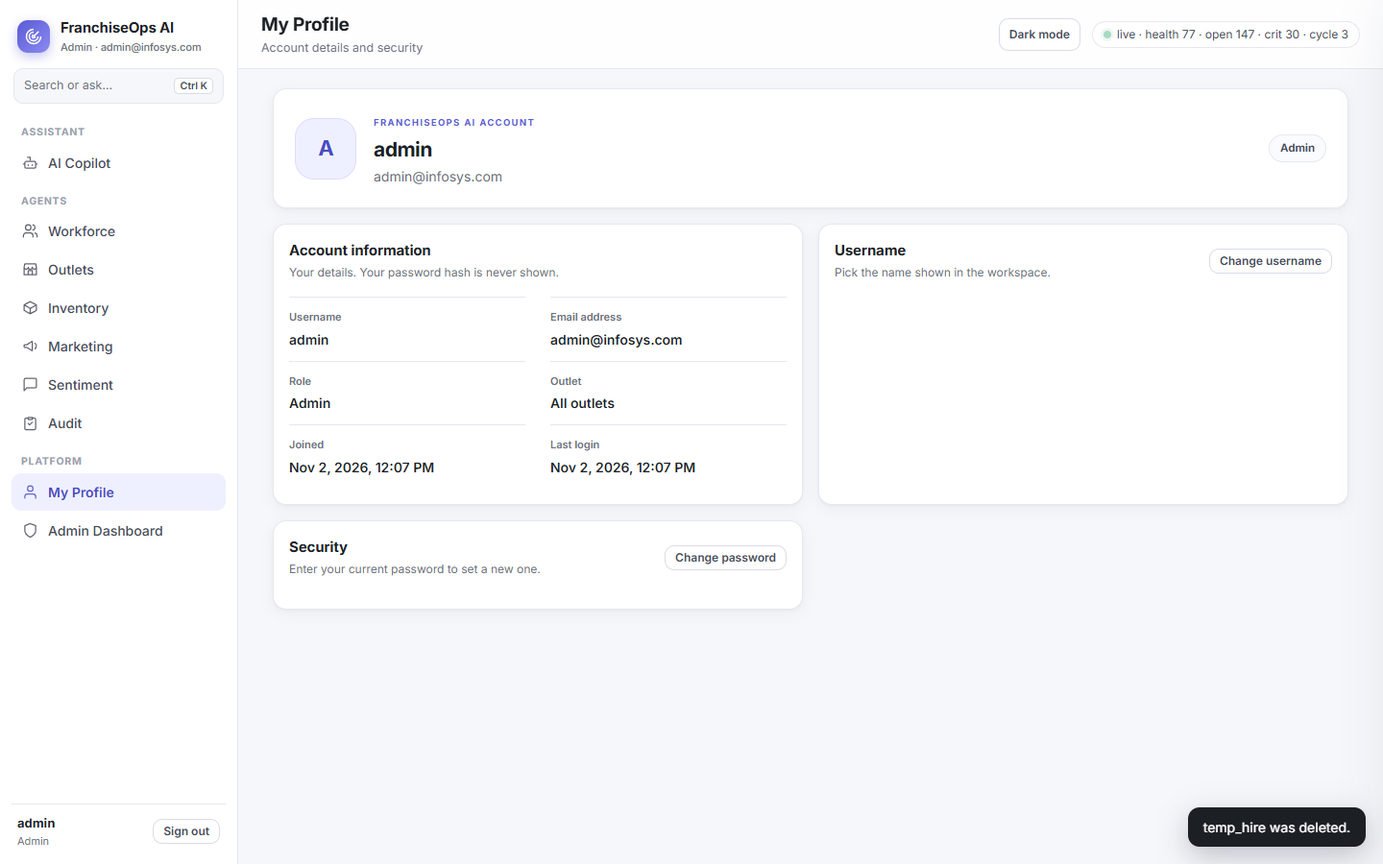
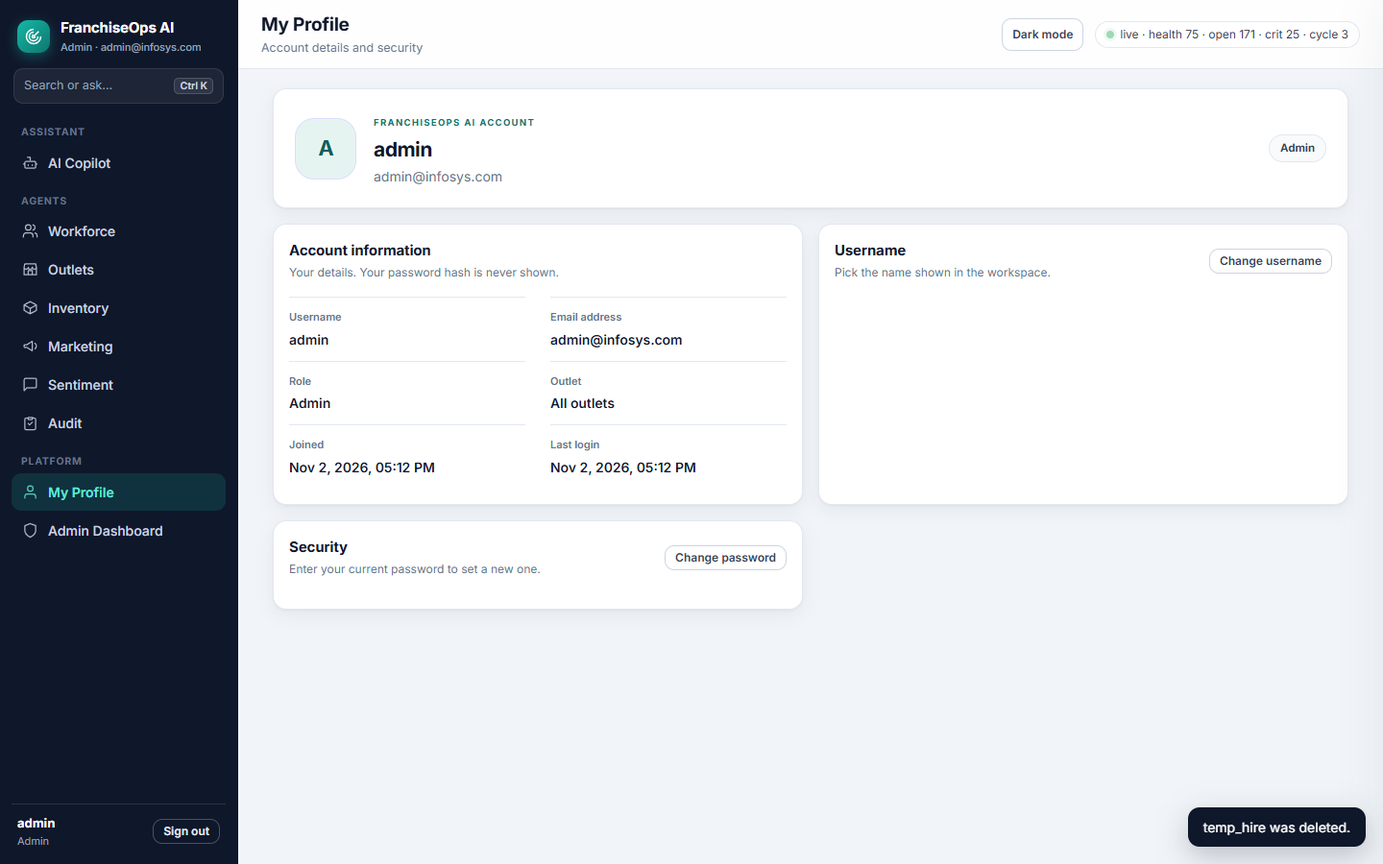
feat(ui): midnight navy and teal light theme; ngrok-first link in the Colab notebook
- light mode: navy sidebar, teal accent, slate greys, amber warnings; charts and server-side series colours updated; dark mode unchanged
- notebook last cell: the ngrok link is primary (Colab's own proxy link is sometimes blocked or answers 404) with the Colab link as a backup
- all 23 screenshots retaken in the new palette

diff --git a/Milestone2/app/static/style.css b/Milestone2/app/static/style.css
@@ -1,20 +1,20 @@
 @font-face{font-family:"Inter";font-style:normal;font-weight:100 900;font-display:swap;src:url(/static/vendor/fonts/inter-latin-wght-normal.woff2) format("woff2");unicode-range:U+0000-00FF,U+0131,U+0152-0153,U+02BB-02BC,U+02C6,U+02DA,U+02DC,U+2000-206F,U+20AC,U+2122,U+2191,U+2193,U+2212,U+2215,U+FEFF,U+FFFD}
 @font-face{font-family:"Inter";font-style:normal;font-weight:100 900;font-display:swap;src:url(/static/vendor/fonts/inter-latin-ext-wght-normal.woff2) format("woff2");unicode-range:U+0100-02BA,U+02BD-02C5,U+02C7-02CC,U+02CE-02D7,U+02DD-02FF,U+0304,U+0308,U+0329,U+1D00-1DBF,U+1E00-1E9F,U+1EF2-1EFF,U+2020,U+20A0-20AB,U+20AD-20C0,U+2113,U+2C60-2C7F,U+A720-A7FF}
-:root{--bg:#f6f7fb;--card:#fff;--line:#e6e8f0;--line2:#d9dce8;--tx:#1c2024;--tx2:#454a58;--mut:#6b7080;--pri:#5b5bd6;--pri2:#4a4ac4;--pri-bg:#eef0ff;--teal:#12a594;--teal-bg:#e6f7f4;--blue:#3e63dd;--blue-bg:#edf2fe;--amber:#f5a524;--amber-bg:#fff6e0;--red:#e5484d;--red-bg:#feebec;--vio:#8e4ec6;--vio-bg:#f5eefb;--green:#30a46c;--r:14px;--sh:0 1px 2px rgba(20,24,40,.04),0 4px 14px rgba(20,24,40,.05)}
-:root{color-scheme:light;--surface:#fff;--surface-soft:#fafbfe;--surface-input:#fff;--surface-hover:#f1f2f8;--border-soft:#eff0f6;--toast-bg:#1c2024;--toast-tx:#fff}
+:root{--bg:#f1f5f9;--card:#fff;--line:#e2e8f0;--line2:#cbd5e1;--tx:#0f172a;--tx2:#334155;--mut:#64748b;--pri:#0f766e;--pri2:#115e59;--pri-bg:#e6f4f1;--teal:#0d9488;--teal-bg:#e6f7f4;--blue:#2563eb;--blue-bg:#eaf1fe;--amber:#f59e0b;--amber-bg:#fff6e0;--red:#dc2626;--red-bg:#feeceb;--vio:#7c3aed;--vio-bg:#f3edfe;--green:#16a34a;--r:14px;--sh:0 1px 2px rgba(15,23,42,.05),0 6px 18px rgba(15,23,42,.06)}
+:root{color-scheme:light;--surface:#fff;--surface-soft:#f8fafc;--surface-input:#fff;--surface-hover:#f1f5f9;--border-soft:#eef2f6;--toast-bg:#0f172a;--toast-tx:#fff}
 :root[data-theme="dark"]{color-scheme:dark;--bg:#11151d;--card:#1b222d;--line:#303a48;--line2:#465263;--tx:#edf1f7;--tx2:#c6cfdb;--mut:#9aa8b8;--pri:#a4a4ff;--pri2:#bebeff;--pri-bg:#292b45;--teal:#53d5c2;--teal-bg:#173b3a;--blue:#8eb2ff;--blue-bg:#1b2c47;--amber:#ffd166;--amber-bg:#3a301b;--red:#ff8589;--red-bg:#42252b;--vio:#d2a3ff;--vio-bg:#342541;--green:#70d9a2;--surface:#1b222d;--surface-soft:#202936;--surface-input:#171e28;--surface-hover:#252e3b;--border-soft:#2b3542;--toast-bg:#e8edf5;--toast-tx:#171b22;--sh:0 1px 2px rgba(0,0,0,.2),0 8px 22px rgba(0,0,0,.22)}
 *{box-sizing:border-box}html,body{margin:0;height:100%;background:var(--bg);color:var(--tx);font:14px/1.5 "Inter",ui-sans-serif,system-ui,-apple-system,"Segoe UI",Roboto,sans-serif;font-feature-settings:"cv11","ss01";-webkit-font-smoothing:antialiased}
 button,input,select,textarea{font:inherit;color:inherit}a{color:var(--pri);text-decoration:none}a:hover{text-decoration:underline}
 #app{display:flex;height:100vh}
 .side{width:248px;flex:none;background:#fff;border-right:1px solid var(--line);display:flex;flex-direction:column;padding:14px 12px;overflow:auto}
-.brand{display:flex;gap:11px;align-items:center;padding:4px 6px 14px;font-weight:700;font-size:15px;letter-spacing:-.01em}.brand i{width:34px;height:34px;border-radius:11px;background:linear-gradient(135deg,var(--pri),#8b8bf0);display:grid;place-items:center;color:#fff;box-shadow:0 4px 12px rgba(91,91,214,.35)}.brand i svg{width:18px;height:18px;stroke:#fff;fill:none;stroke-width:2}
+.brand{display:flex;gap:11px;align-items:center;padding:4px 6px 14px;font-weight:700;font-size:15px;letter-spacing:-.01em}.brand i{width:34px;height:34px;border-radius:11px;background:linear-gradient(135deg,var(--pri),#14b8a6);display:grid;place-items:center;color:#fff;box-shadow:0 4px 12px rgba(15,118,110,.35)}.brand i svg{width:18px;height:18px;stroke:#fff;fill:none;stroke-width:2}
 .brand small{display:block;color:var(--mut);font-weight:500;font-size:11px;max-width:150px;overflow:hidden;text-overflow:ellipsis;white-space:nowrap}
 .ksearch{display:flex;align-items:center;gap:8px;margin:0 2px 10px;padding:8px 10px;border:1px solid var(--line);border-radius:10px;color:var(--mut);cursor:pointer;font-size:12.5px;background:var(--bg)}.ksearch:hover{border-color:var(--line2)}.ksearch kbd{margin-left:auto;font:600 10.5px "Inter";border:1px solid var(--line2);border-radius:5px;padding:1px 5px;background:#fff;color:var(--mut)}
 .ngrp{font-size:10.5px;font-weight:700;letter-spacing:.07em;text-transform:uppercase;color:#9a9eb0;padding:12px 10px 4px}
 .nav{display:flex;align-items:center;gap:10px;padding:8px 10px;border-radius:10px;color:var(--tx2);cursor:pointer;border:1px solid transparent;margin-bottom:1px;user-select:none;font-weight:500;transition:background .12s}
 .nav:hover{background:#f1f2f8}.nav.on{background:var(--pri-bg);color:var(--pri2);font-weight:600}
 .nav svg{width:17px;height:17px;flex:none;stroke:currentColor;fill:none;stroke-width:1.8;stroke-linecap:round;stroke-linejoin:round;opacity:.85}.nav .bd{margin-left:auto;background:var(--red);color:#fff;border-radius:99px;font-size:10.5px;padding:1px 7px;font-weight:700}.nav .bd.a{background:var(--amber);color:#3d2600}
-.nav.cmd{margin-top:10px;background:linear-gradient(135deg,#5b5bd6,#7a6be0);color:#fff;font-weight:600;box-shadow:0 6px 16px rgba(91,91,214,.28)}.nav.cmd:hover{filter:brightness(1.05)}.nav.cmd.on{background:linear-gradient(135deg,#4a4ac4,#6a5bd8);color:#fff}
+.nav.cmd{margin-top:10px;background:linear-gradient(135deg,#0f766e,#0d9488);color:#fff;font-weight:600;box-shadow:0 6px 16px rgba(15,118,110,.28)}.nav.cmd:hover{filter:brightness(1.05)}.nav.cmd.on{background:linear-gradient(135deg,#115e59,#0f766e);color:#fff}
 .main{flex:1;min-width:0;min-height:0;display:flex;flex-direction:column}
 .top{display:flex;align-items:center;gap:12px;padding:12px 24px;border-bottom:1px solid var(--line);background:rgba(255,255,255,.85);backdrop-filter:blur(10px);flex-wrap:wrap}
 .top h1{font-size:19px;margin:0;letter-spacing:-.015em}.top .sub{color:var(--mut);font-size:12.5px;margin:0}.sp{flex:1}
@@ -38,15 +38,15 @@ button,input,select,textarea{font:inherit;color:inherit}a{color:var(--pri);text-
 .callout{padding:11px 14px;border-radius:12px;border:1px solid;display:flex;gap:10px;color:var(--tx2)}.callout.info{border-color:#cfd9fb;background:var(--blue-bg)}.callout.warn,.callout.warning{border-color:#f6d98f;background:var(--amber-bg)}.callout.error,.callout.critical,.callout.bad{border-color:#f5bcbe;background:var(--red-bg)}.callout.good,.callout.ok,.callout.success{border-color:#b6e3da;background:var(--teal-bg)}
 .md{line-height:1.65}.md code,.md pre{background:#f1f2f8;border-radius:6px;padding:1px 5px;font-family:ui-monospace,"JetBrains Mono",monospace;font-size:12px}.md pre{padding:10px;overflow:auto;white-space:pre-wrap}.md h1,.md h2,.md h3{margin:.7em 0 .3em;letter-spacing:-.01em}.md ul{margin:.3em 0;padding-left:20px}.md table{border-collapse:collapse;margin:.5em 0}.md td,.md th{border:1px solid var(--line);padding:5px 10px}
 .btn{border:1px solid var(--line2);background:#fff;padding:7px 14px;border-radius:10px;cursor:pointer;font-weight:600;color:var(--tx2);transition:all .12s}.btn:hover{background:#f4f5fb;border-color:#c9cde0}
-.btn.primary{background:var(--pri);color:#fff;border-color:var(--pri);box-shadow:0 2px 8px rgba(91,91,214,.3)}.btn.primary:hover{background:var(--pri2)}.btn.danger{background:var(--red-bg);border-color:#f5bcbe;color:#c62a2f}.btn.ok{background:var(--teal-bg);border-color:#b6e3da;color:#0b7a6c}.btn.ghost{background:transparent}.btn.sm{padding:3px 10px;font-size:12px}.btn:disabled{opacity:.5;cursor:wait}
+.btn.primary{background:var(--pri);color:#fff;border-color:var(--pri);box-shadow:0 2px 8px rgba(15,118,110,.3)}.btn.primary:hover{background:var(--pri2)}.btn.danger{background:var(--red-bg);border-color:#f5bcbe;color:#c62a2f}.btn.ok{background:var(--teal-bg);border-color:#b6e3da;color:#0b7a6c}.btn.ghost{background:transparent}.btn.sm{padding:3px 10px;font-size:12px}.btn:disabled{opacity:.5;cursor:wait}
 form.f{display:grid;grid-template-columns:repeat(auto-fit,minmax(210px,1fr));gap:12px;align-items:end}form.f.inline{grid-template-columns:repeat(auto-fit,minmax(160px,max-content))}
-.fld label{display:block;color:var(--mut);font-size:12px;font-weight:500;margin-bottom:4px}.fld input,.fld select,.fld textarea,.in{width:100%;padding:8px 11px;border-radius:10px;border:1px solid var(--line2);background:#fff;transition:border .12s,box-shadow .12s}.fld input:focus,.fld select:focus,.fld textarea:focus,.in:focus,.srch:focus{outline:0;border-color:var(--pri);box-shadow:0 0 0 3px rgba(91,91,214,.15)}.fld textarea{min-height:80px;grid-column:1/-1}.fld.wide{grid-column:1/-1}.fld input[type=range]{padding:0;accent-color:var(--pri)}
+.fld label{display:block;color:var(--mut);font-size:12px;font-weight:500;margin-bottom:4px}.fld input,.fld select,.fld textarea,.in{width:100%;padding:8px 11px;border-radius:10px;border:1px solid var(--line2);background:#fff;transition:border .12s,box-shadow .12s}.fld input:focus,.fld select:focus,.fld textarea:focus,.in:focus,.srch:focus{outline:0;border-color:var(--pri);box-shadow:0 0 0 3px rgba(15,118,110,.15)}.fld textarea{min-height:80px;grid-column:1/-1}.fld.wide{grid-column:1/-1}.fld input[type=range]{padding:0;accent-color:var(--pri)}
 .chk{display:flex;flex-wrap:wrap;gap:6px}.chk label{display:flex;gap:6px;align-items:center;margin:0;color:var(--tx2);padding:3px 10px;border:1px solid var(--line2);border-radius:99px;font-size:12px;background:#fff}
 .res{margin-top:12px}
 .tk{border:1px solid var(--line);border-left:4px solid var(--blue);border-radius:12px;padding:12px 14px;margin-bottom:10px;background:#fff;box-shadow:var(--sh)}.tk.Critical{border-left-color:var(--red)}.tk.Warning{border-left-color:var(--amber)}.tk.proposed{background:var(--vio-bg)}
 .tk .h{display:flex;gap:8px;align-items:center;flex-wrap:wrap}.tk .d{margin:6px 0;color:var(--tx2)}.tk .m{color:var(--mut);font-size:11.8px;display:flex;gap:10px;flex-wrap:wrap}.tk .a{display:flex;gap:6px;margin-top:8px;flex-wrap:wrap;align-items:center}.tk .cm{margin-top:8px;border-top:1px dashed var(--line2);padding-top:6px;font-size:12.5px}
 .filters{display:flex;gap:6px;margin-bottom:12px;flex-wrap:wrap;align-items:center}.filters .chip{cursor:pointer}.filters .chip:hover{border-color:var(--pri)}.filters .chip.on{border-color:var(--pri);background:var(--pri-bg);color:var(--pri2);font-weight:600}
-.hero{display:flex;gap:18px;align-items:center;background:linear-gradient(120deg,#eef0ff,#e8f6f4);border:1px solid #d9def7;border-radius:16px;padding:16px 20px}.hero .sc{font-size:36px;font-weight:800;min-width:84px;text-align:center;letter-spacing:-.03em}.hero h2{margin:0;font-size:16px}.hero p{margin:2px 0;color:var(--mut);font-size:12.5px}
+.hero{display:flex;gap:18px;align-items:center;background:linear-gradient(120deg,#e6f4f1,#e8f6f4);border:1px solid #d5e5e2;border-radius:16px;padding:16px 20px}.hero .sc{font-size:36px;font-weight:800;min-width:84px;text-align:center;letter-spacing:-.03em}.hero h2{margin:0;font-size:16px}.hero p{margin:2px 0;color:var(--mut);font-size:12.5px}
 .map{border-radius:12px;overflow:hidden;border:1px solid var(--line);background:#cfe5f7}.leaflet-container{background:#cfe5f7;font:inherit}.lg{display:flex;gap:12px;font-size:12px;color:var(--mut);margin-top:8px;flex-wrap:wrap}.lg i{display:inline-block;width:10px;height:10px;border-radius:50%;margin-right:4px}
 .leaflet-tooltip{background:#fff;color:var(--tx);border:1px solid var(--line);border-radius:8px;box-shadow:var(--sh)}
 #toast{position:fixed;right:18px;bottom:18px;display:flex;flex-direction:column;gap:8px;z-index:99}#toast div{background:#1c2024;color:#fff;padding:10px 16px;border-radius:12px;max-width:380px;box-shadow:0 10px 30px rgba(20,24,40,.25);animation:up .25s}#toast div.bad{background:#c62a2f}@keyframes up{from{transform:translateY(10px);opacity:0}}
@@ -54,7 +54,7 @@ form.f{display:grid;grid-template-columns:repeat(auto-fit,minmax(210px,1fr));gap
 #drawer .dh{display:flex;justify-content:space-between;padding:14px 18px;border-bottom:1px solid var(--line);font-size:16px}#db{padding:16px;overflow:auto;flex:1;background:var(--bg)}.x{background:none;border:0;color:var(--mut);cursor:pointer;font-size:16px}
 #app.auth-shell{display:block;height:auto;min-height:100vh}
 .login{display:grid;grid-template-columns:minmax(0,1.08fr) minmax(420px,.92fr);width:100%;min-height:100vh;background:#fff}
-.lp{position:relative;isolation:isolate;overflow:hidden;background:radial-gradient(800px 500px at 10% 5%,rgba(139,139,240,.42),transparent 62%),linear-gradient(145deg,#292b75,#4a4ac4 56%,#147f80);color:#fff;padding:clamp(32px,6vw,82px);display:flex;flex-direction:column;justify-content:center;gap:clamp(30px,5vh,52px)}
+.lp{position:relative;isolation:isolate;overflow:hidden;background:radial-gradient(800px 500px at 10% 5%,rgba(45,212,191,.42),transparent 62%),linear-gradient(145deg,#0b1f3a,#115e59 56%,#147f80);color:#fff;padding:clamp(32px,6vw,82px);display:flex;flex-direction:column;justify-content:center;gap:clamp(30px,5vh,52px)}
 .lp:after{content:"";position:absolute;z-index:-1;width:380px;height:380px;right:-170px;bottom:-170px;border:1px solid rgba(255,255,255,.16);border-radius:50%;box-shadow:0 0 0 44px rgba(255,255,255,.035),0 0 0 90px rgba(255,255,255,.025)}
 .login-brand{display:flex;align-items:center;gap:11px;font-size:17px;font-weight:650;letter-spacing:-.02em}.login-brand b{font-weight:500;color:#a8f3e8}
 .login-mark{display:grid;place-items:center;width:40px;height:40px;border:1px solid rgba(255,255,255,.25);border-radius:13px;background:rgba(255,255,255,.13);box-shadow:0 8px 24px rgba(15,20,70,.2)}
@@ -74,10 +74,10 @@ form.f{display:grid;grid-template-columns:repeat(auto-fit,minmax(210px,1fr));gap
 .auth-kicker{color:var(--pri);font-size:9.5px}
 .auth .fld{margin:0}.auth .fld label{margin-bottom:7px;color:var(--tx2);font-size:12.5px;font-weight:600}
 .auth .fld input{min-height:46px;padding:10px 12px;border-color:var(--line2);border-radius:10px;background:#fff}
-.auth .fld input:focus-visible,.auth .fld input:focus{outline:0;border-color:var(--pri);box-shadow:0 0 0 3px rgba(91,91,214,.14)}
+.auth .fld input:focus-visible,.auth .fld input:focus{outline:0;border-color:var(--pri);box-shadow:0 0 0 3px rgba(15,118,110,.14)}
 .password-field{position:relative;display:flex;align-items:center}.password-field input{padding-right:68px!important}
 .password-toggle{position:absolute;right:9px;padding:5px 7px;border:0;border-radius:6px;background:transparent;color:var(--pri2);font-size:12px;font-weight:650;cursor:pointer}
-.password-toggle:hover{background:var(--pri-bg)}.password-toggle:focus-visible,.auth a:focus-visible,.remember input:focus-visible,.login-submit:focus-visible{outline:3px solid rgba(91,91,214,.36);outline-offset:3px}
+.password-toggle:hover{background:var(--pri-bg)}.password-toggle:focus-visible,.auth a:focus-visible,.remember input:focus-visible,.login-submit:focus-visible{outline:3px solid rgba(15,118,110,.36);outline-offset:3px}
 .login-options{display:flex;align-items:center;justify-content:space-between;gap:12px;margin-top:-3px;font-size:12px}
 .remember{display:inline-flex;align-items:center;gap:8px;color:var(--tx2);cursor:pointer}.remember input{width:16px;height:16px;margin:0;accent-color:var(--pri)}
 .auth a{color:var(--pri2);font-weight:600;text-decoration:none}.auth a:hover{text-decoration:underline}
@@ -113,14 +113,14 @@ form.f{display:grid;grid-template-columns:repeat(auto-fit,minmax(210px,1fr));gap
 .profile-details{display:grid;grid-template-columns:repeat(2,minmax(0,1fr));column-gap:26px}
 .profile-row{min-width:0;padding:12px 0;border-top:1px solid var(--line)}.profile-label{margin-bottom:4px;color:var(--mut);font-size:11px;font-weight:600}.profile-value{overflow-wrap:anywhere;color:var(--tx);font-weight:550}.profile-value.unavailable{color:var(--mut);font-weight:400}
 .profile-pending{display:flex;align-items:center;gap:9px;margin-top:12px;padding:10px 12px;border:1px solid #cfd9fb;border-radius:10px;background:var(--blue-bg);color:#3451b2;font-size:11.5px;line-height:1.5}
-.profile-form{display:grid;gap:14px}.profile-edit-grid{display:grid;grid-template-columns:repeat(2,minmax(0,1fr));gap:12px 16px}.profile-form .fld{min-width:0}.profile-form .fld label{display:block;margin-bottom:5px;color:var(--tx2);font-size:12px;font-weight:600}.profile-form .fld input{width:100%;min-height:42px;padding:9px 11px;border:1px solid var(--line2);border-radius:10px;background:#fff}.profile-form .fld input:focus{outline:0;border-color:var(--pri);box-shadow:0 0 0 3px rgba(91,91,214,.14)}
+.profile-form{display:grid;gap:14px}.profile-edit-grid{display:grid;grid-template-columns:repeat(2,minmax(0,1fr));gap:12px 16px}.profile-form .fld{min-width:0}.profile-form .fld label{display:block;margin-bottom:5px;color:var(--tx2);font-size:12px;font-weight:600}.profile-form .fld input{width:100%;min-height:42px;padding:9px 11px;border:1px solid var(--line2);border-radius:10px;background:#fff}.profile-form .fld input:focus{outline:0;border-color:var(--pri);box-shadow:0 0 0 3px rgba(15,118,110,.14)}
 .profile-form-actions{display:flex;justify-content:flex-end;gap:8px}.profile-feedback{min-height:0;margin:0;color:var(--mut);font-size:12px;line-height:1.5}.profile-feedback.is-error{color:#a22d36}.profile-feedback.is-notice{padding:9px 11px;border:1px solid #cfd9fb;border-radius:9px;background:var(--blue-bg);color:#3451b2}
 .profile-password-guidance{grid-column:1/-1;margin:0}
 @media(max-width:700px){.profile-page{grid-template-columns:1fr}.profile-header{grid-column:auto;align-items:flex-start;flex-wrap:wrap;padding:18px}.profile-header-copy{flex-basis:calc(100% - 84px)}.profile-role{margin-left:82px}.profile-details,.profile-edit-grid{grid-template-columns:1fr}.profile-section-heading{align-items:flex-start}.profile-section-heading .btn{flex:none}.profile-password-guidance{grid-column:auto}}
 .admin-dashboard{display:grid;gap:16px;max-width:1440px;margin:0 auto}.admin-integration-note{align-items:center;font-size:12px}
 .admin-kpis{display:grid;grid-template-columns:repeat(4,minmax(0,1fr));gap:14px}.admin-kpis .kpi{min-width:0}.admin-kpis .kpi .v{color:var(--mut)}
 .admin-card{min-width:0}.admin-section-heading{display:flex;align-items:center;justify-content:space-between;gap:16px;margin-bottom:15px}.admin-section-heading h2{margin:0;font-size:15px;letter-spacing:-.01em}.admin-section-heading p{margin:3px 0 0;color:var(--mut);font-size:12px}
-.admin-user-toolbar{display:flex;align-items:center;justify-content:space-between;gap:12px;margin-bottom:12px}.admin-search{width:min(360px,100%);min-height:38px;padding:8px 11px;border:1px solid var(--line2);border-radius:9px;background:#fff}.admin-search:focus{outline:0;border-color:var(--pri);box-shadow:0 0 0 3px rgba(91,91,214,.14)}
+.admin-user-toolbar{display:flex;align-items:center;justify-content:space-between;gap:12px;margin-bottom:12px}.admin-search{width:min(360px,100%);min-height:38px;padding:8px 11px;border:1px solid var(--line2);border-radius:9px;background:#fff}.admin-search:focus{outline:0;border-color:var(--pri);box-shadow:0 0 0 3px rgba(15,118,110,.14)}
 .admin-row-actions{display:flex;gap:6px;flex-wrap:wrap}.admin-row-actions .btn:disabled{opacity:.55;cursor:not-allowed}.btn.danger{color:#a22d36;border-color:#f0c7ca}.admin-empty{padding:18px 12px;color:var(--mut);font-size:12.5px;text-align:center;white-space:normal}.admin-table{min-width:0}.admin-table table{min-width:680px}.admin-table td[colspan]{white-space:normal}
 .admin-pending-note{margin-top:12px;color:var(--mut);font-size:11.5px;line-height:1.55}
 .admin-delete-preview{margin-top:10px;border-top:1px solid var(--line);padding-top:10px;color:var(--tx2);font-size:12px}.admin-delete-preview summary{width:fit-content;color:var(--pri2);font-weight:600;cursor:pointer}.admin-delete-copy{display:flex;align-items:center;justify-content:space-between;gap:12px;margin-top:8px;padding:11px 12px;border:1px solid #f0c7ca;border-radius:10px;background:#fffafb}.admin-delete-copy p{margin:0;color:var(--mut);line-height:1.5}.admin-delete-copy .btn:disabled{opacity:.55;cursor:not-allowed}
@@ -132,7 +132,7 @@ form.f{display:grid;grid-template-columns:repeat(auto-fit,minmax(210px,1fr));gap
 @media(max-width:420px){.admin-kpis{grid-template-columns:1fr 1fr}.admin-kpis .kpi{padding:12px}.admin-kpis .kpi .v{font-size:22px}.admin-kpis .kpi .s{font-size:11px}}
 .warnbar{background:var(--amber-bg);border-bottom:1px solid #f6d98f;color:#7a4b00;padding:7px 24px;font-size:12.5px}
 .chat{display:flex;flex-direction:column;gap:12px}.msgs{display:flex;flex-direction:column;gap:12px;min-height:280px}.m{max-width:88%;padding:11px 15px;border-radius:16px;border:1px solid var(--line)}.m.u{align-self:flex-end;background:var(--pri);color:#fff;border-color:var(--pri);border-bottom-right-radius:5px}.m.a{background:#fff;box-shadow:var(--sh);border-bottom-left-radius:5px}.st{color:var(--mut);font-size:12px}.st:before{content:"› "}.cites{margin:4px 0;font-size:12px;color:var(--mut)}.cites summary{cursor:pointer;color:var(--pri2);font-weight:600}
-.cin{display:flex;gap:8px}.cin input{flex:1;padding:11px 15px;border-radius:12px;border:1px solid var(--line2);background:#fff}.cin input:focus{outline:0;border-color:var(--pri);box-shadow:0 0 0 3px rgba(91,91,214,.15)}
+.cin{display:flex;gap:8px}.cin input{flex:1;padding:11px 15px;border-radius:12px;border:1px solid var(--line2);background:#fff}.cin input:focus{outline:0;border-color:var(--pri);box-shadow:0 0 0 3px rgba(15,118,110,.15)}
 .kpal{position:fixed;inset:0;background:rgba(20,24,40,.35);backdrop-filter:blur(2px);z-index:90;display:flex;justify-content:center;padding-top:12vh}.kpal>div{width:min(620px,94vw);background:#fff;border-radius:16px;box-shadow:0 30px 80px rgba(20,24,40,.3);overflow:hidden;align-self:flex-start}.kpal input{width:100%;border:0;border-bottom:1px solid var(--line);padding:16px 18px;font-size:15px;outline:0}.kpal .it{display:flex;gap:10px;padding:10px 18px;cursor:pointer;align-items:center;color:var(--tx2)}.kpal .it.on{background:var(--pri-bg);color:var(--pri2)}.kpal .it small{margin-left:auto;color:var(--mut)}.kpal .lst{max-height:50vh;overflow:auto;padding:6px 0}.kpal .gl{font-size:10.5px;font-weight:700;letter-spacing:.07em;text-transform:uppercase;color:#9a9eb0;padding:8px 18px 2px}
 ::-webkit-scrollbar{width:9px;height:9px}::-webkit-scrollbar-thumb{background:#d5d8e6;border-radius:9px}
 @media(max-width:760px){#app{flex-direction:column-reverse}.side{width:100%;flex-direction:row;padding:4px;overflow-x:auto;border-right:0;border-top:1px solid var(--line);position:sticky;bottom:0;z-index:20;gap:2px}.side .brand,.side .foot,.side .sp,.ngrp,.ksearch{display:none}#nav{display:flex;gap:2px}.nav{flex-direction:column;gap:2px;padding:6px 10px;font-size:10px;min-width:62px;text-align:center;margin:0}.nav.cmd{margin-top:0}.nav span{display:block!important;white-space:nowrap;max-width:70px;overflow:hidden;text-overflow:ellipsis}.nav .bd{position:absolute;margin:0}.nav{position:relative}.content{padding:12px 10px 20px}.top{padding:8px 10px}.top h1{font-size:15px}.kpis{grid-template-columns:repeat(2,1fr)}.hero{flex-direction:column;align-items:flex-start}#drawer{width:100vw}.tbl td{max-width:200px}.srch{width:100%}.chip{font-size:11px}}
@@ -233,3 +233,21 @@ form.f{display:grid;grid-template-columns:repeat(auto-fit,minmax(210px,1fr));gap
 .admin-kpis .kpi .v{color:var(--tx)}
 .admin-role-select{width:auto;min-width:140px;padding:5px 8px}.admin-table td{vertical-align:middle;white-space:nowrap}
 @media(max-width:1000px){.sidefoot .who{display:none}.sidefoot{justify-content:center}}
+/* ---- light theme: midnight-navy sidebar with a teal accent (slate + teal + amber) ---- */
+:root:not([data-theme="dark"]) .side{background:#0f172a;border-right-color:#0f172a;color:#cbd5e1}
+:root:not([data-theme="dark"]) .side .brand{color:#fff}
+:root:not([data-theme="dark"]) .side .brand small{color:#94a3b8}
+:root:not([data-theme="dark"]) .brand i{background:linear-gradient(135deg,#14b8a6,#0f766e);box-shadow:0 4px 14px rgba(20,184,166,.35)}
+:root:not([data-theme="dark"]) .ksearch{background:rgba(255,255,255,.06);border-color:rgba(255,255,255,.1);color:#94a3b8}
+:root:not([data-theme="dark"]) .ksearch:hover{border-color:rgba(255,255,255,.22)}
+:root:not([data-theme="dark"]) .ksearch kbd{background:rgba(255,255,255,.08);border-color:rgba(255,255,255,.16);color:#cbd5e1}
+:root:not([data-theme="dark"]) .ngrp{color:#64748b}
+:root:not([data-theme="dark"]) .nav{color:#cbd5e1}
+:root:not([data-theme="dark"]) .nav:hover{background:rgba(255,255,255,.07);color:#fff}
+:root:not([data-theme="dark"]) .nav.on{background:rgba(20,184,166,.16);color:#5eead4}
+:root:not([data-theme="dark"]) .sidefoot{border-top-color:rgba(255,255,255,.12)}
+:root:not([data-theme="dark"]) .sidefoot .who b{color:#fff}
+:root:not([data-theme="dark"]) .sidefoot .who small{color:#94a3b8}
+:root:not([data-theme="dark"]) .side .signout{background:transparent;color:#e2e8f0;border-color:rgba(255,255,255,.25)}
+:root:not([data-theme="dark"]) .side .signout:hover{background:rgba(255,255,255,.1)}
+@media(max-width:760px){:root:not([data-theme="dark"]) .side{border-top-color:#1e293b}}

diff --git a/Milestone2/app/static/app.js b/Milestone2/app/static/app.js
@@ -73,7 +73,7 @@ R.tickets=b=>{const el=h("div"),st={f:"all",open:new Set()};let cur=b;const body
 // ---- charts
 const FN={size3:v=>Math.max(8,Math.min(34,Math.sqrt(Math.abs(v[3]||10))*1.6)),scatterTip:p=>`<b>${esc(p.value[2]||"")}</b><br>${esc(p.seriesName||"")}<br>${p.value[0]}, ${p.value[1]}`,nodeTip:p=>p.dataType==="node"?`<b>${esc(p.name)}</b><br>${esc(p.data.tip||"")}`:"",nodeLabel:p=>p.data.showLabel?p.name:""};
 function revive(o){if(Array.isArray(o))return o.map(revive);if(o&&typeof o==="object"){if(o.__fn)return FN[o.__fn];const r={};for(const k in o)r[k]=revive(o[k]);return r}return o}
-echarts.registerTheme("lt",{color:["#5b5bd6","#12a594","#f5a524","#8e4ec6","#e5484d","#30a46c","#d6409f","#3e63dd","#8b8d98"],backgroundColor:"transparent",textStyle:{fontFamily:"Inter, system-ui, sans-serif",color:"#454a58"},legend:{textStyle:{color:"#454a58"}},categoryAxis:{axisLine:{lineStyle:{color:"#d9dce8"}},axisTick:{show:false},axisLabel:{color:"#6b7080"},splitLine:{lineStyle:{color:"#eceef6"}}},valueAxis:{axisLine:{show:false},axisTick:{show:false},axisLabel:{color:"#6b7080"},splitLine:{lineStyle:{color:"#eceef6"}}},tooltip:{backgroundColor:"#fff",borderColor:"#e6e8f0",textStyle:{color:"#1c2024"},extraCssText:"box-shadow:0 8px 24px rgba(20,24,40,.12);border-radius:10px"}});
+echarts.registerTheme("lt",{color:["#0f766e","#2563eb","#f59e0b","#7c3aed","#e5484d","#16a34a","#db2777","#0891b2","#64748b"],backgroundColor:"transparent",textStyle:{fontFamily:"Inter, system-ui, sans-serif",color:"#454a58"},legend:{textStyle:{color:"#454a58"}},categoryAxis:{axisLine:{lineStyle:{color:"#d9dce8"}},axisTick:{show:false},axisLabel:{color:"#6b7080"},splitLine:{lineStyle:{color:"#eceef6"}}},valueAxis:{axisLine:{show:false},axisTick:{show:false},axisLabel:{color:"#6b7080"},splitLine:{lineStyle:{color:"#eceef6"}}},tooltip:{backgroundColor:"#fff",borderColor:"#e6e8f0",textStyle:{color:"#1c2024"},extraCssText:"box-shadow:0 8px 24px rgba(20,24,40,.12);border-radius:10px"}});
 const CH=[];function lazy(box,fn){let d=0;const t=()=>{if(d)return;if(box.isConnected&&box.clientWidth>0){d=1;fn()}else setTimeout(t,60)};t()}
 R.chart=b=>{const el=h("div"),box=h("div",{style:`height:${b.h||290}px`});el.append(h("h3",{style:"margin:0 0 4px;font-size:13.5px;display:"+(b.title?"block":"none")},b.title||""),box);let ch=null,cur=b;
  const init=()=>{ch=echarts.init(box,"lt",{renderer:"canvas"});CH.push(ch);ch.setOption(revive(cur.opt),true);
@@ -86,9 +86,9 @@ window.addEventListener("resize",()=>CH.forEach(c=>{try{c.resize()}catch(e){}}))
 function shiftGeo(g,sh){const mv=c=>typeof c[0]==="number"?[c[0]+sh,c[1]]:c.map(mv);return{type:"FeatureCollection",features:g.features.map(f=>({type:"Feature",properties:f.properties,geometry:{type:f.geometry.type,coordinates:mv(f.geometry.coordinates)}}))}}
 let WORLD=null;async function world(){if(WORLD)return WORLD;try{const t=await(await fetch("/static/vendor/world.topo.json")).json();WORLD=topojson.feature(t,t.objects.countries)}catch(e){WORLD={type:"FeatureCollection",features:[]}}return WORLD}
 R.map=b=>{const el=h("div"),box=h("div",{class:"map",style:`height:${b.h||470}px`}),lg=h("div",{class:"lg"});el.append(box,lg);let M=null,grp=null,cur=b;
- const draw=()=>{grp.clearLayers();const SH=[-360,0,360];cur.layers.forEach(L=>{if(L.type==="lines")L.lines.forEach(l=>{if(l.pts.length<2)return;SH.forEach(sh=>{const p=L2.polyline(l.pts.map(q=>[q[0],q[1]+sh]),{color:l.color||"#5b5bd6",weight:l.w||2,dashArray:l.dash||null,opacity:.9,lineJoin:"round",renderer:M._r});if(l.tip)p.bindTooltip(l.tip,{sticky:true});grp.addLayer(p)})});
+ const draw=()=>{grp.clearLayers();const SH=[-360,0,360];cur.layers.forEach(L=>{if(L.type==="lines")L.lines.forEach(l=>{if(l.pts.length<2)return;SH.forEach(sh=>{const p=L2.polyline(l.pts.map(q=>[q[0],q[1]+sh]),{color:l.color||"#0f766e",weight:l.w||2,dashArray:l.dash||null,opacity:.9,lineJoin:"round",renderer:M._r});if(l.tip)p.bindTooltip(l.tip,{sticky:true});grp.addLayer(p)})});
    else if(L.type==="circles")L.items.forEach(c=>SH.forEach(sh=>{const k=L2.circle([c.lat,c.lon+sh],{radius:c.r_m,color:c.color||"#e5484d",weight:1,fillOpacity:.18,renderer:M._r});if(c.tip)k.bindTooltip(c.tip);grp.addLayer(k)}));
-   else if(L.type==="points")[...L.pts].sort((a,c)=>(a.z||0)-(c.z||0)).forEach(p=>SH.forEach(sh=>{const m=L2.circleMarker([p.lat,p.lon+sh],{radius:p.r||5,color:"#ffffff",weight:1.2,fillColor:p.color||"#5b5bd6",fillOpacity:.95,renderer:M._r});if(p.tip)m.bindTooltip(p.tip,{sticky:true});const o=p.open||(cur.open?p.id:null)||p.id;if(o)m.on("click",()=>UI.openEntity(o));grp.addLayer(m)}))});
+   else if(L.type==="points")[...L.pts].sort((a,c)=>(a.z||0)-(c.z||0)).forEach(p=>SH.forEach(sh=>{const m=L2.circleMarker([p.lat,p.lon+sh],{radius:p.r||5,color:"#ffffff",weight:1.2,fillColor:p.color||"#0f766e",fillOpacity:.95,renderer:M._r});if(p.tip)m.bindTooltip(p.tip,{sticky:true});const o=p.open||(cur.open?p.id:null)||p.id;if(o)m.on("click",()=>UI.openEntity(o));grp.addLayer(m)}))});
   lg.replaceChildren(...(cur.legend||[]).map(([t,c])=>h("span",null,h("i",{style:"background:"+c}),t)))};
  const L2=L;const go=async()=>{M=L2.map(box,{zoomControl:true,worldCopyJump:true,attributionControl:false,minZoom:1,preferCanvas:true});M._r=L2.canvas({padding:.5});const w=await world();[-360,0,360].forEach(sh=>L2.geoJSON(sh?shiftGeo(w,sh):w,{renderer:M._r,style:{color:"#b9b2a0",weight:.8,fillColor:"#f3efe6",fillOpacity:1},interactive:false}).addTo(M));grp=L2.layerGroup().addTo(M);
   const v=cur.view||{};if(v.bounds)M.fitBounds(v.bounds);else M.setView(v.center||[20,0],v.zoom||2);draw();setTimeout(()=>M.invalidateSize(),50)};

diff --git a/Milestone2/tools/build_notebook.py b/Milestone2/tools/build_notebook.py
@@ -38,7 +38,7 @@ INTRO = """# FranchiseOps AI - Milestone 2
 
 A multi-user franchise operations platform: **FastAPI + SQLite + JWT + RBAC**, six working agents and a SQL-only AI Copilot.
 
-**How to run:** add the secrets below in the Colab sidebar (key icon, *Notebook access* ON), then **Runtime -> Run all**. The last cell prints **Open the app**.
+**How to run:** add the secrets below in the Colab sidebar (key icon, *Notebook access* ON), then **Runtime -> Run all**. The last cell prints **Open the app** (an ngrok link) and a backup Colab link.
 
 | Secret | Used for |
 |---|---|
@@ -46,7 +46,7 @@ A multi-user franchise operations platform: **FastAPI + SQLite + JWT + RBAC**, s
 | `ADMIN_PASSWORD` | password of the first Admin account (required) |
 | `ADMIN_EMAIL_ID` | e-mail of the first Admin (optional, default `admin@infosys.com`) |
 | `EMAIL_ADDRESS`, `EMAIL_PASSWORD` | Gmail sender and app password for password-recovery codes (from Milestone 1) |
-| `NGROK_AUTHTOKEN` | fallback public link |
+| `NGROK_AUTHTOKEN` | the public link (recommended: Colab's own link is sometimes blocked) |
 
 Sign in as `admin` (or the Admin e-mail) with your `ADMIN_PASSWORD`. Everyone else creates an account on the sign-up page and picks their own role; an Admin can promote or demote them in the Admin Dashboard.
 Never type a password or token into a cell."""
@@ -84,21 +84,29 @@ for _ in range(90):
 else:
     print(open('/content/app/server.log').read()[-3000:])'''
 
-OPEN = '''from IPython.display import HTML, display
+OPEN = '''import os
+from IPython.display import HTML, display
+links = []
+# 1) ngrok: a normal public https link that works in any browser (Colab's own link is often blocked or answers 404)
+try:
+    from pyngrok import ngrok
+    token = os.environ.get('NGROK_AUTHTOKEN')
+    if not token:
+        from google.colab import userdata
+        token = userdata.get('NGROK_AUTHTOKEN')
+    ngrok.kill()
+    ngrok.set_auth_token(token)
+    links.append(("Open the app", ngrok.connect(8000).public_url, "ngrok link. If ngrok shows a notice page, click Visit Site."))
+except Exception as e:
+    print('ngrok link unavailable (add the NGROK_AUTHTOKEN secret):', e)
+# 2) Colab's own proxy link as a backup
 try:
     from google.colab import output
-    url = output.eval_js("google.colab.kernel.proxyPort(8000, {'cache': false})")
-    display(HTML(f'<a href="{url}" target="_blank" style="font-size:18px">Open the app</a><br><small>{url}</small>'))
+    links.append(("Backup: Colab link", output.eval_js("google.colab.kernel.proxyPort(8000, {'cache': false})"), "Works only in a browser signed in to the same Google account."))
 except Exception as e:
-    print('Colab proxy unavailable:', e)
-    try:
-        from google.colab import userdata
-        from pyngrok import ngrok
-        ngrok.set_auth_token(userdata.get('NGROK_AUTHTOKEN'))
-        url = ngrok.connect(8000).public_url
-        display(HTML(f'<a href="{url}" target="_blank" style="font-size:18px">Open the app</a><br><small>{url}</small>'))
-    except Exception as e2:
-        print('ngrok failed:', e2)'''
+    print('Colab proxy link unavailable:', e)
+for label, url, note in links:
+    display(HTML(f'<p><a href="{url}" target="_blank" style="font-size:18px">{label}</a><br><small>{url}<br>{note}</small></p>'))'''
 
 def build():
     cells = [md(INTRO),

diff --git a/Milestone2/app/blocks.py b/Milestone2/app/blocks.py
@@ -4,9 +4,9 @@ import math, json, datetime
 import numpy as np, pandas as pd
 import live_engine as LE
 
-TEAL, BLUE, AMBER, RED, VIOLET, GREEN, PINK, GREY = "#12a594", "#3e63dd", "#f5a524", "#e5484d", "#8e4ec6", "#30a46c", "#d6409f", "#8b8d98"
-PRI = "#5b5bd6"
-PAL = [PRI, TEAL, AMBER, VIOLET, RED, GREEN, PINK, BLUE, GREY]
+TEAL, BLUE, AMBER, RED, VIOLET, GREEN, PINK, GREY = "#0d9488", "#2563eb", "#f59e0b", "#e5484d", "#7c3aed", "#16a34a", "#db2777", "#64748b"
+PRI = "#0f766e"
+PAL = [PRI, BLUE, AMBER, VIOLET, RED, GREEN, PINK, TEAL, GREY]
 TONE = {"Critical": RED, "High": RED, "Warning": AMBER, "Medium": AMBER, "Info": BLUE, "Low": TEAL, "Pass": TEAL, "Fail": RED}
 
 def Q(sql, p=()):

diff --git a/Milestone2/README.md b/Milestone2/README.md
@@ -190,7 +190,7 @@ The numbers come from the generated demo data and change with every fresh run.
 
 ## 7. Design (Step 8)
 
-A consistent colour theme, readable tables, responsive layout (a phone gets a bottom navigation bar), a **dark-mode switch**, loading states, and clear error messages (for example **"Access denied (403)"**). Designed login, sign-up, recovery, profile and admin pages.
+A consistent **midnight navy and teal** colour theme in light mode (navy sidebar, white cards on cool slate, teal accents, amber for warnings), readable tables, responsive layout (a phone gets a bottom navigation bar), a **dark-mode switch**, loading states, and clear error messages (for example **"Access denied (403)"**). Designed login, sign-up, recovery, profile and admin pages.
 
 ---
 
